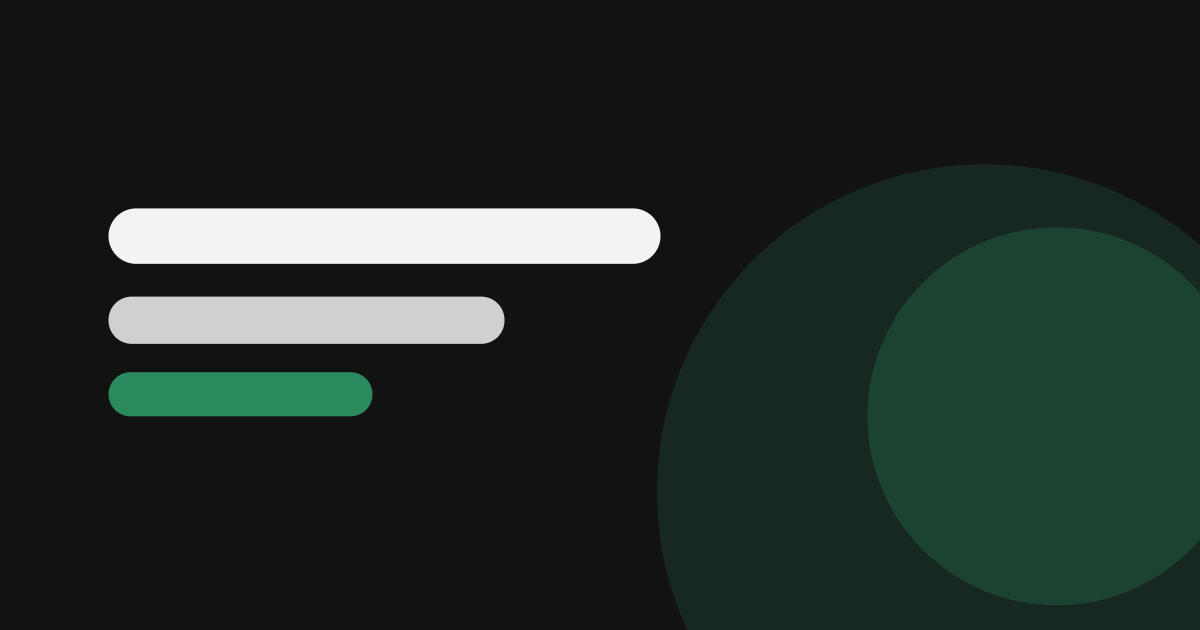
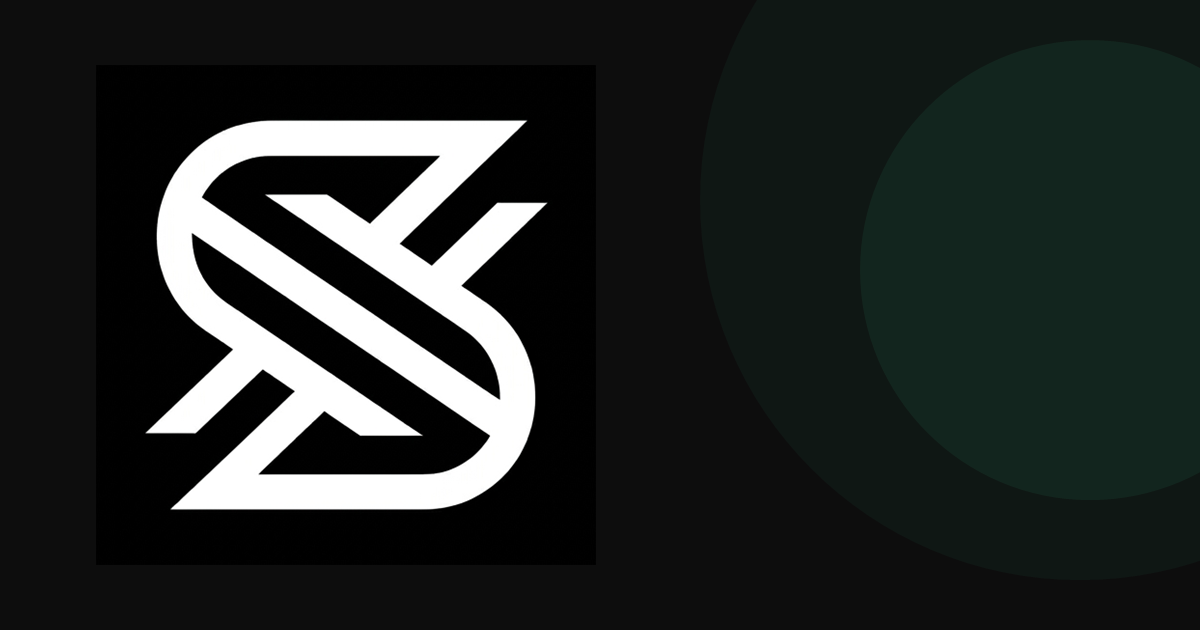
feat(brand): og-image with the new mark + accent circles; sw v4

diff --git a/public/sw.js b/public/sw.js
@@ -1,4 +1,4 @@
-const VERSION = "snivat-v3";
+const VERSION = "snivat-v4";
 const CORE = [
   "/offline.html",
   "/manifest.webmanifest",
